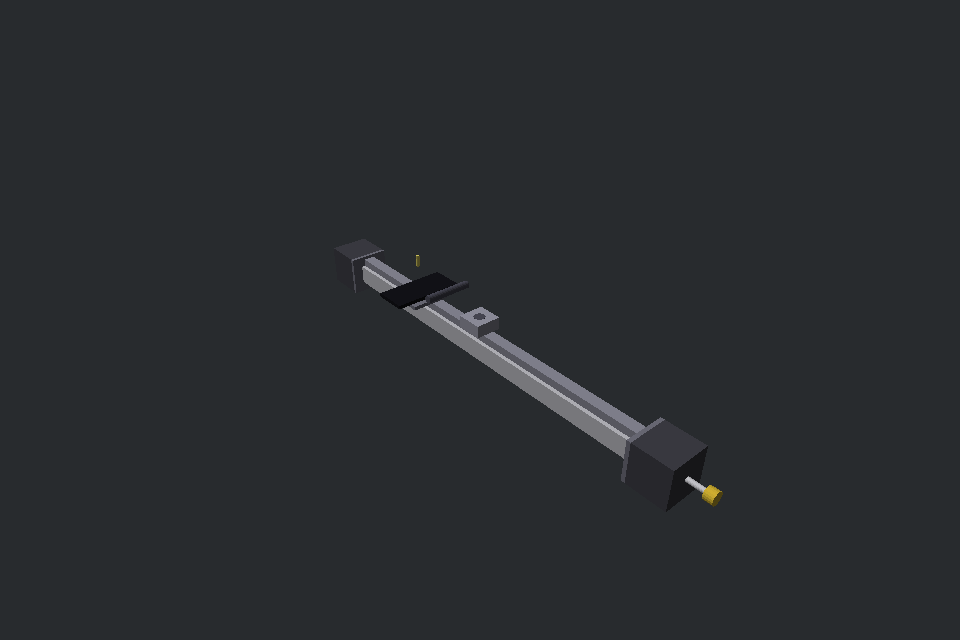
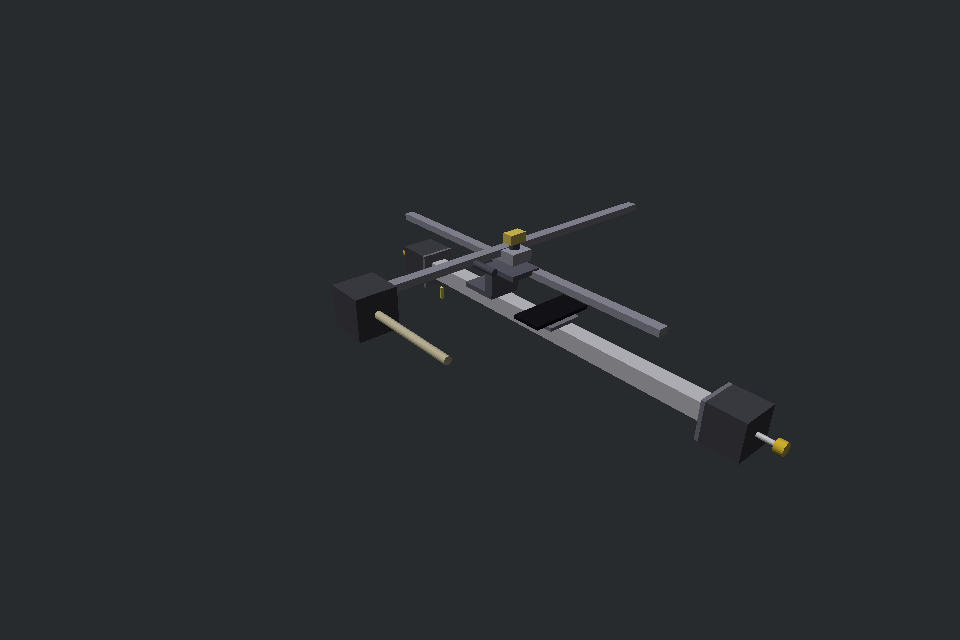
M7 docs: two-axis gantry verified behaviour, rig renders, contact lessons

diff --git a/docs/01-analysis.md b/docs/01-analysis.md
@@ -1,6 +1,6 @@
 # MechMaker — Architecture & Verified Behaviour
 
-> Every number in this document is asserted by a test. Run `dotnet test` (195 tests).
+> Every number in this document is asserted by a test. Run `dotnet test` (204 tests).
 
 One artifact — `machine.json` — drives three frontends: the visual builder (M3),
 the MCP server for LLM agents (M4), and the headless engine everything shares.
@@ -93,23 +93,44 @@ Android, entirely through MCP tools.
 *The emulator under test (Android 16, API 36): the HIL seam drives this UI with
 physics taps and reads it with OpenCV.*
 
-## The gantry and `tap_at` — the full loop
+## The gantry and `tap_at` — the full loop (M7, two-axis)
 
-`examples/phone_gantry_rig.json` mounts a `touch_finger` on a belt-driven
-carriage above the phone. The finger is androidtester's spring finger as a
-servo-driven plunger (press −8 mm, retract +2 mm; hold for long-press timing).
+`examples/phone_gantry_rig.json` elevates the gantry above the deck: the phone
+lies on a plate at the beam centre, the X rail rides on stacked corner-bracket
+standoffs, and a Y stage hangs from the X carriage — a yaw-90 rail with a guided
+T8 nut, driven by a leadscrew motor mounted at the rail's end. The `touch_finger`
+hangs from the nut; its servo plunger descends to tap the glass.
 
-**`tap_at(fx)` closes vision → motion → contact**: it measures the live scene
-(arm offset, glass plane, press depth — no catalog constants), positions the
-gantry with a correct-and-retry loop (converging within ~0.6 mm of a 68 mm
-screen), presses 2 mm past the glass, and reports the fraction the tip *actually
-pressed* (the gantry parks where the physics puts it). Two commanded columns land
-in their commanded neighbourhoods: 35% and 65%.
+**`tap_at(fx, fy)` closes vision → motion → contact on both axes**: it measures
+the live scene (arm offset, glass plane, press depth — no catalog constants),
+servos both stages continuously (no stop-and-settle — the belt/leadscrew
+equality's recoil would eat the correction), presses with a measured slide
+direction (the mount decides which sign presses), and reports the fraction the
+tip *actually pressed*. The physics confirms it end-to-end: commanded (35%, 50%)
+and (65%, 50%) each dispatch exactly one emulator tap at (35%, 48.7%) and
+(64%, 48.4%).
+
+Three rig-design traps fell to the closed loop:
+
+1. **The arm sweeps through whatever drives the Y stage** — the finger's
+   horizontal arm reaches ±54 mm in X and crosses every fixed Y position it can
+   travel to; a carriage-mounted Y motor is guaranteed collision. The motor now
+   mounts at the Y rail's *end* (max arm reach in screen space: y=+0.022 of the
+   ±0.2 rail span).
+2. **The X rail crosses the work area** — the finger's 34 mm drop puts the tip's
+   travel band inside the rail's band, so a tap crossing the rail's y-position
+   must duck. `tap_at` plungers down to 3 mm above the glass before traversing
+   (tip top clears the rail bottom), then presses from there.
+3. **A coplanar box contact glues a carriage** — the catalog carriage now floats
+   its block half a millimetre inside its own body (a real MGN12 carriage wraps
+   the rail on bearing blocks), instead of changing connector geometry (which
+   the mating-math test guards).
 
 ![gantry rig](img/phone_gantry.png)
 
-*The gantry rig: the phone (dark slab) sits on a side plate under the belt-driven
-carriage; the finger tool hangs from the carriage, arming over the screen.*
+*The two-axis gantry rig: the phone on the deck, the elevated X rail on its
+standoff stack, the Y rail and end-mounted leadscrew, the finger arming over
+the screen.*
 
 ![rig close-up](img/phone_rig.png)
 
@@ -159,28 +180,31 @@ The 2-axis stage is therefore parked until the catalog grows a guided-carriage
 pair (or a keyway/anti-rotation connector) — the physics is already honest about
 why the naive rig fails, which is exactly what a digital twin is for.
 
-### Round two: the guided nut, and the deck-vs-gantry lesson
+### Round three: the elevated frame, and the duck-and-debounce lessons
 
-Round two built the missing part — `leadscrew_nut_guided_t8`, a T8 nut in a
-carrier that rides an MGN12 rail: the rail blocks the nut's spin, and the screw
-connection becomes a coupler (the compiler now excludes guided-nut screw
-connections from the tree build, mirroring the belt-clamp pattern). The guided
-nut slid the Y axis correctly (8 mm/rev ✓, no yaw ✓).
+The structural wall fell in M7: the gantry now elevates on a standoff stack
+(two corner brackets), holding the rail over the deck-mounted phone — a compact
+version of androidtester's deck/gantry separation. Both axes drive taps; the
+guided nut carries the finger without yaw. What remained was a *mechanics*
+clean-up the closed loop exposed:
 
-But the full two-axis gantry then hit a *structural* wall, not a connector one:
-**the device sits on the same beam the gantry travels on**. The base's only
-mounting line is y=0 — the same line the X carriage slides along. Every placement
-of the phone (top_a, top_b, end brackets) either collides with the carriage's
-travel or stands the phone vertical. The real androidtester separates them: the
-device nest is a fixture on the deck, the gantry is an *elevated* frame above it —
-the tool travels over the device and the tool-Z descends to reach it.
+- **The press bounced**: a long fall onto the glass rebounds, and each rebound
+  counted as a fresh tap. Landing now happens in two steps (settle 1 mm above
+  the kiss, then push 2 mm past), and the dispatch bridge ignores re-contact
+  inside a 100 ms refractory window — one tap per press again.
+- **The press's sign is mount-dependent, and its *offset* too**: the Y stage's
+  mounting flips the plunger axis (positive slide presses), and the compiled
+  geometry (catalog extents halve into MJCF sizes) makes the contact point
+  flush with the tip body. `tap_at` probes the slide with a small nudge and
+  derives direction and offset from the measured slope — no catalog constants.
+- **Stop-and-settle recoil cancels slow corrections**: the belt's (and the
+  leadscrew's) equality springs unwind when the loop stops to settle, so both
+  converge loops now drive continuously and only stop inside tolerance.
 
-The groundwork is committed and tested: the guided-nut part, bolt-through-slot
-compatibility, `GetBodyQuaternion`, the 2-axis `TapAtController`, and the
-connection-graph resolver in the workspace. What's missing is the frame: two
-parallel Y rails on standoff brackets, an X bridge across them, the device nest
-on the deck below — a proper CAD pass for the catalog's next milestone, best
-designed with the render tool verifying each step.
+![rig close-up](img/phone_rig.png)
+
+*The two-axis rig: elevated rail on the standoff stack, Y rail across it with
+the end-mounted leadscrew, finger arming over the deck-mounted phone.*
 
 ## Lessons the tests forced us to learn (so you don't have to)
 
@@ -203,3 +227,10 @@ designed with the render tool verifying each step.
    degenerates; test icons carry internal structure.
 8. **Simulator body positions are zero until kinematics run** — anything reading
    the compiled pose must refresh first.
+9. **Coplanar box-on-box contact is glue**: μ×(static friction on a full-face
+   contact) outdrags a soft kinematic coupler; model sliding parts with a hair
+   of clearance instead of changing connector geometry.
+10. **Catalog extents halve into MJCF sizes** — every "contact depth" derived
+    from the catalog must be checked against the compiled scene, not the JSON.
+11. **Contact episodes need a refractory**: edges alone count a bounce as two
+    taps; re-arm only after a sustained (100 ms) clear interval.
